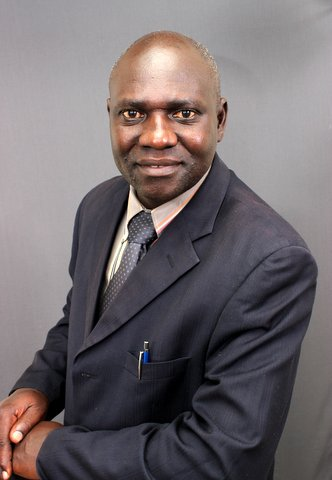
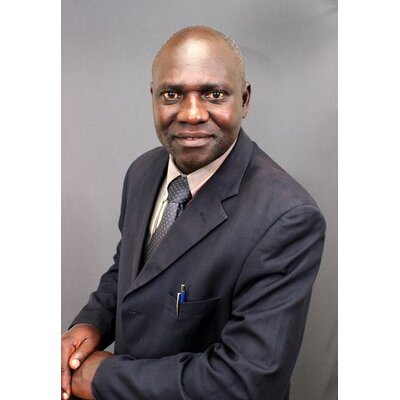
Fix build and UX: rename E-Documents to E-Docs, remove Abstracts from navbar, optimize speaker photos, fix metadata export, type fixes in ScrollReveal and admin download route

diff --git a/components/Navbar.tsx b/components/Navbar.tsx
@@ -28,8 +28,7 @@ export function Navbar() {
     { name: 'Exhibitors', href: '/exhibitors' },
     { name: 'Pre-Conference', href: '/pre-conference' },
     { name: 'Register', href: '/register' },
-    { name: 'Abstracts', href: '/abstracts' },
-    { name: 'Conference E-Documents', href: '/e-documents' },
+    { name: 'E-Docs', href: '/e-documents' },
     { name: 'Contact', href: '/contact' },
   ]
 

diff --git a/app/api/admin/registrations/[id]/download/route.ts b/app/api/admin/registrations/[id]/download/route.ts
@@ -62,7 +62,7 @@ export async function GET(
     const filename = `Payment_Proof_${registration.firstName}_${registration.lastName}.${extension}`
     console.log('Serving file:', filename)
 
-    return new NextResponse(fileBuffer, {
+    return new NextResponse(fileBuffer as BodyInit, {
       status: 200,
       headers: {
         'Content-Type': contentType,

diff --git a/components/ScrollReveal.tsx b/components/ScrollReveal.tsx
@@ -50,7 +50,7 @@ export default function ScrollReveal({
 
   return (
     <div
-      ref={ref}
+      ref={ref as React.RefObject<HTMLDivElement>}
       className={`transition-all duration-700 ease-out ${getAnimationClass()} ${className}`}
     >
       {children}

diff --git a/app/(main)/e-documents/page.tsx b/app/(main)/e-documents/page.tsx
@@ -1,5 +1,3 @@
-'use client'
-
 import React from 'react'
 import { Card, CardContent } from '@/components/ui/card'
 import { FileText, Download, Clock, Users, Presentation, BookOpen, Video, Image as ImageIcon } from 'lucide-react'
